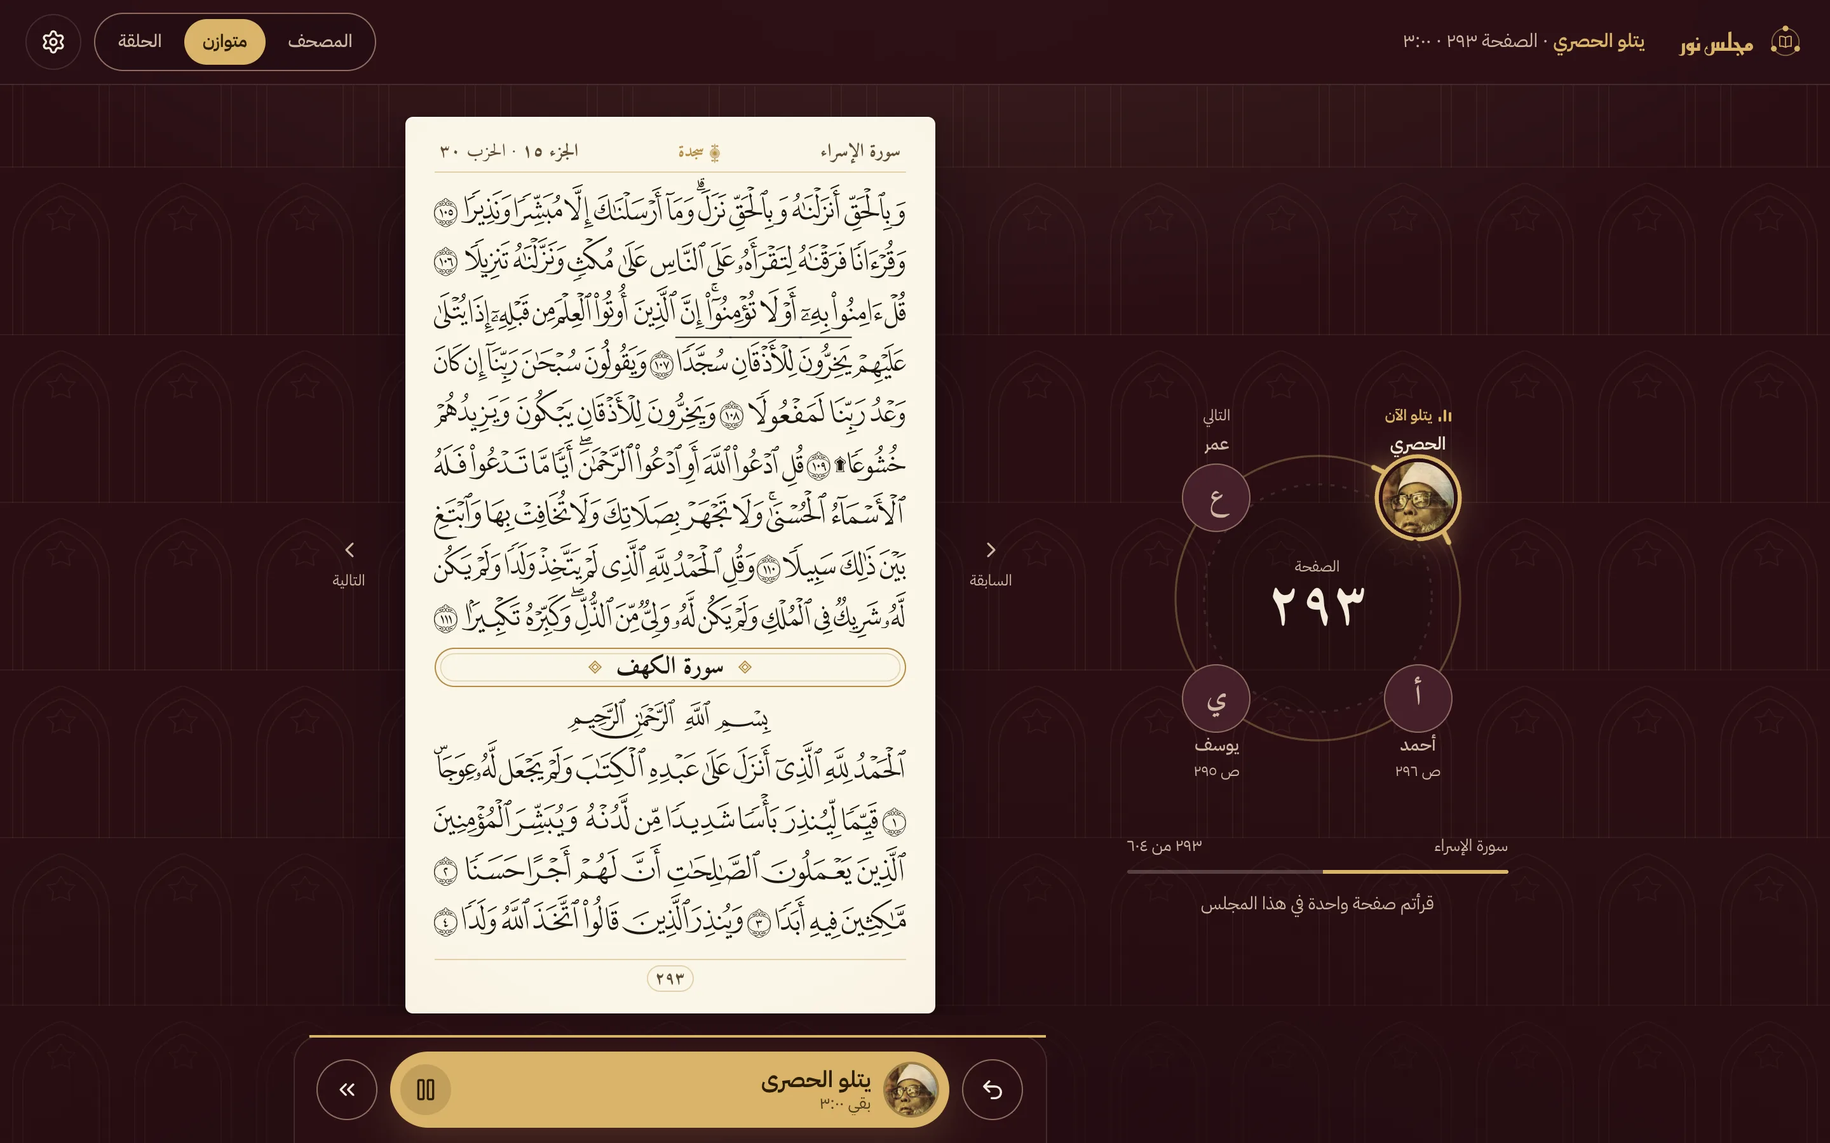
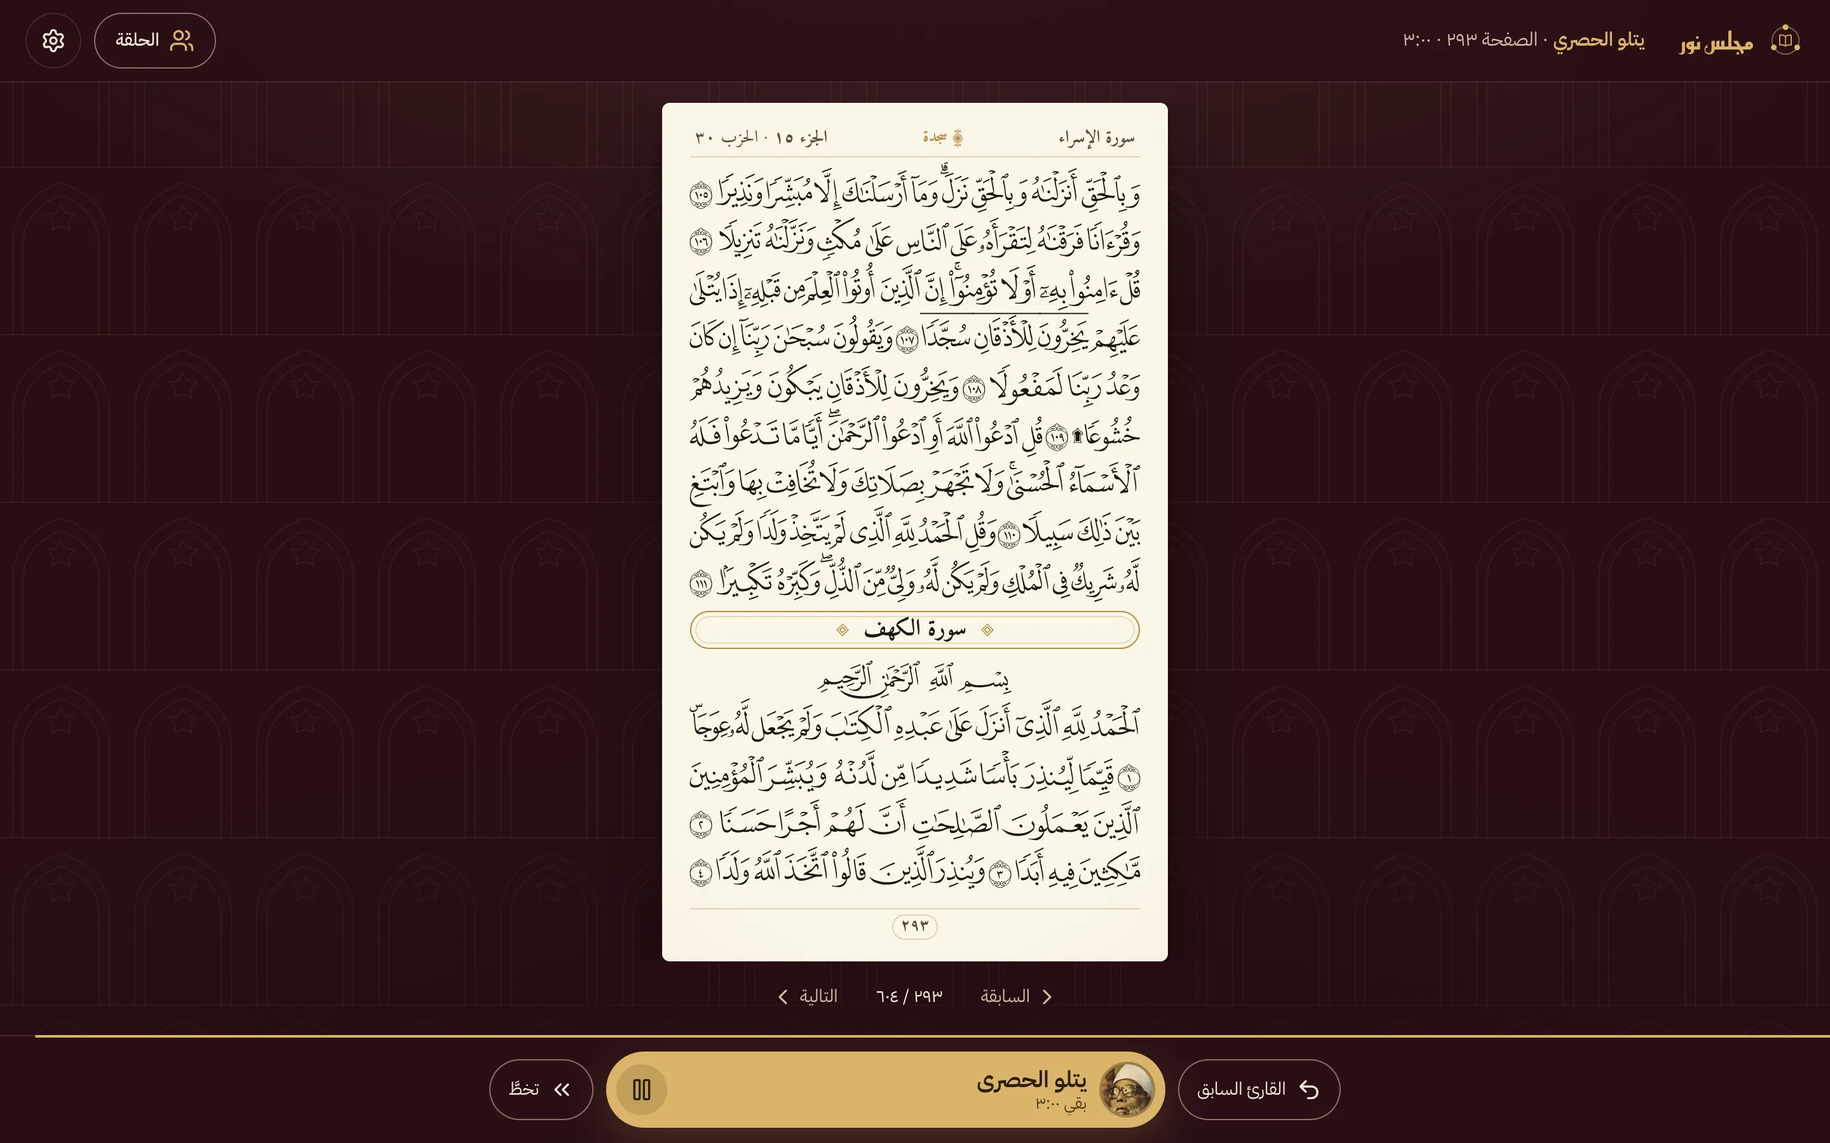
Document the one screen, the new settings and the green default
AGENTS.md describes the reading screen as one fitted column and how it
was measured, and the device's settings apart from the halaqa's;
src/halaqa/AGENTS.md the repeat-mode rule for multi-page turns, speed and
the tone. The README lists the new settings and shows the new screens.

diff --git a/README.md b/README.md
@@ -6,14 +6,14 @@
 
 افتح التطبيق، واختر حلقتك، واقرؤوا معًا. لا حساب ولا خادم، وكل شيء يبقى على جهازك.
 
-![شاشة القراءة على الحاسوب: صفحة من سورة الإسراء، وبجانبها الحلقة: أحمد، والشيخ الحصري يتلو الآن، وعمر، ويوسف؛ وفي الأسفل زرّ التلاوة بصورة الشيخ والوقت الباقي](docs/screenshots/desktop.webp)
+![شاشة القراءة على الحاسوب: صفحة من سورة الإسراء كاملةً في وسط الشاشة، وفي الأعلى «يتلو الحصري» وزرّ «الحلقة»، وفي الأسفل زرّ التلاوة بصورة الشيخ والوقت الباقي](docs/screenshots/desktop.webp)
 
 <p>
   <img src="docs/screenshots/setup.webp" width="260" alt="شاشة البداية: أهل الحلقة بترتيبهم، أحمد ثم الشيخ الحصري ثم عمر، ولكلٍّ زرّا تقديم وتأخير، وتحتهم «أضف شيخًا» و«أضف قارئًا»">
   <img src="docs/screenshots/mobile.webp" width="260" alt="شاشة القراءة على الهاتف باللون الرملي: الصفحة تملأ الشاشة، وفي الأعلى «دور عمر · الصفحة ٢٩٤»">
 </p>
 
-![وضع «الحلقة» باللون الأخضر في طريقة تكرار الصفحة: الدائرة كبيرة، والشيخ المنشاوي تلا الصفحة، وأحمد قرأها، وعمر يقرؤها الآن، ويوسف التالي](docs/screenshots/halaqa.webp)
+![الحلقة بعد الضغط على زرّها، في طريقة تكرار الصفحة: الشيخ المنشاوي تلا الصفحة، وأحمد قرأها، وعمر يقرؤها الآن، ويوسف التالي](docs/screenshots/halaqa.webp)
 
 ## ما في الحلقة
 
@@ -26,13 +26,15 @@
 - **صفحة أو صفحتان أو ثلاث في كل دور**.
 - **البدء من سورة أو جزء أو صفحة**، ورقم الصفحة ظاهر دائمًا.
 - **زرّ واحد ينقل الدور**: «تمّ — القارئ التالي»، وتحته اسم من يليه وصفحته. ومعه «القارئ السابق». وفي دور الشيخ يصير الزرّ نفسه إيقافًا للتلاوة واستئنافًا لها، وبجانبه «تخطَّ».
-- **أو بتوقيت قارئ**: يُقاس دور القارئ بمدة تلاوة قارئ مختار للصفحة نفسها، فيظهر عدّاد هادئ وينتقل الدور حين ينتهي، مع زرّ للإيقاف المؤقت. والانتقال اليدوي هو الأصل.
-- **استمع إلى الصفحة**: تلاوة الصفحة الحالية بصوت القارئ المختار، قبل القراءة أو بعدها، تُوقَف وتُستأنف بالزرّ نفسه.
+- **أو بتوقيت قارئ**: يُقاس دور القارئ بمدة تلاوة قارئ مختار للصفحة نفسها، فيظهر عدّاد هادئ وينتقل الدور حين ينتهي، مع زرّ للإيقاف المؤقت. ولأن الناس يقرؤون أبطأ من القارئ المتقن، تُمدّ «مهلة الدور» ربعًا أو نصفًا. والانتقال اليدوي هو الأصل.
+- **نغمة خفيفة** إذا انتقل الدور وحده، بانتهاء التوقيت أو تلاوة الشيخ، ولها زرّ يُسكتها.
+- **استمع إلى الصفحة**: تلاوة الصفحة الحالية بصوت القارئ المختار، قبل القراءة أو بعدها، مرةً أو مرتين أو ثلاثًا، تُوقَف وتُستأنف بالزرّ نفسه.
+- **سرعة التلاوة**: متأنّية أو عادية أو أسرع، والصوت بنبرته لا يتغيّر.
 - **إيقاف واحد يوقف كل شيء**: إيقاف التوقيت يوقف معه التلاوة التي تُسمَع، والاستئناف يعيدهما معًا.
 - **عشرة قرّاء بصورهم، مجموعين بحسب أدائهم**: متأنٍّ جدًّا، ومتأنٍّ، ومعتدل، وسريع؛ وبجانب كلٍّ متوسط مدة صفحته، وزرّ تسمعه به يتلو الفاتحة قبل أن تختاره: الحصري (المعلّم والمرتّل)، وعبد الباسط، والعفاسي، والمنشاوي، والدوسري، والشاطري، والرفاعي، والسديس، والشريم.
 - **صور القرّاء كما تحب**: ظاهرة، أو مموّهة لا تُعرف بها الوجوه، أو مخفية فلا تُحمَّل أصلًا ويظهر مكانها الحرف الأول من الاسم. من زرّ «المظهر» في شاشة البداية، أو من الإعدادات.
 - **الحلقة مرسومة، وهي ترتيب القراءة**: أهل الحلقة حول دائرة بترتيبهم، ومن عليه الدور مضاء بالذهبي، وعلامة تنتقل على الدائرة من مقعد إلى مقعد. وتحت كل مقعد ما يفعله: يقرأ الآن، أو التالي، أو قرأ، أو صفحته القادمة.
-- **شاشة هادئة**: على الحاسوب صفحة المصحف وبجانبها الحلقة لا غير، معًا في وسط الشاشة. وثلاثة أوضاع: المصحف (الصفحة كبيرة)، ومتوازن، والحلقة (لمن يدير الجلسة).
+- **شاشة واحدة هادئة على كل جهاز**: صفحة المصحف كاملةً بقدر الشاشة بلا تمرير، أو الحلقة كبيرةً لمن يدير الجلسة، يُبدَّل بينهما بزرّ في الأعلى، وأزرار الدور تحتهما دائمًا.
 - **أربعة ألوان**: أخضر (وهو الأصل) وعنّابي وأزرق كسجّاد المسجد ليلًا، ورملي فاتح للنهار والغرف المضيئة، بنقش خفيف لا يزاحم المصحف.
 - **تُحفظ الحلقة على جهازك**: إن أُعيد تحميل الصفحة عُرض عليك أن تتابع من الصفحة نفسها والقارئ نفسه.
 - **الختم**: إذا بلغت الحلقة آخر المصحف قيل «خُتم المصحف»، وعُرضت ختمة جديدة من الفاتحة.

diff --git a/AGENTS.md b/AGENTS.md
@@ -21,10 +21,11 @@ There are two screens and no router:
   who sits in the circle and in what order, people and reciters, each moved
   up or down with a button; continue or repeat; pages per turn; manual or
   reciter-timed turns. A halaqa left open is offered first, as one card.
-- **The reading screen** (`ReadingScreen`). The Mushaf page, the circle
-  beside it (which is also the reading order: every seat says what it does
-  next), and one primary button. On a person's turn it passes the turn on;
-  on a reciter's turn it pauses and resumes his recitation.
+- **The reading screen** (`ReadingScreen`). The Mushaf page, fitted whole to
+  the screen, or the circle (which is also the reading order: every seat
+  says what it does next), one button in the top bar switching between
+  them, and under both one primary button. On a person's turn it passes the
+  turn on; on a reciter's turn it pauses and resumes his recitation.
 
 The brief the app was built from asks for this order of importance on every
 screen, and every decision should protect it: **1. the Quran, 2. the current
@@ -214,6 +215,18 @@ Built once by scripts, committed, never fetched from an API at run time.
   (`aria-pressed`), not radios: arrowing through a radio group selects as it
   goes, and choosing closes the list.
 
+## Settings that belong to the device
+
+`prefs` in `state.ts`, kept apart from the halaqa (`config`) because they
+are how this device looks and sounds, not how the circle reads: the theme,
+the reciters' photos, the speed of recitations (0.75, 1 or 1.25; beyond
+them tajweed suffers, so there is no slider), how many times «استمع» recites
+the page, and a soft tone (`src/halaqa/chime.ts`, Web Audio, never on the
+recitations' element) when a turn passes on its own. They are in the
+settings and behind the gear on the start screen. The halaqa's own
+«مهلة الدور» (a timed reader's turn ×1, ×1.25 or ×1.5 of the reciter's
+time) is in `config`, since it is the circle's choice.
+
 ## Photos
 
 Reciters' photographs follow `prefs.photos`: shown, blurred, or hidden. Some
@@ -245,39 +258,40 @@ README.
 
 ## Layout
 
-The reading screen has three bands (`src/styles/reading.css`): phone under
-760px (the page and the turn; the circle opens in a sheet), tablet to 1099px
-(the page and a narrow side column), desktop from 1100px (the circle and the
-page, sized by the chosen view). There is no third column: the circle is
-the reading order, so a separate list would only repeat it.
+The reading screen is the same on every screen (`src/styles/reading.css`):
+one column the height of the window, never scrolled. A top bar says whose
+turn it is and opens the jump; a button in it switches the main area
+between the Mushaf page and the circle (`showing` in `ReadingScreen`); the
+action bar stays under both. There is no reading-order list: the circle is
+the order, every seat saying what it does next.
 
-On a desktop the page's column is as wide as the page and its two turning
-arrows and no wider, and the grid is centred, so the circle and the page sit
-together in the middle of the screen however wide it is. The views only move
-room between them (`--side`, `--stage-h`).
+The page fits its room whole. The room (`.mushaf-stage`) is a size
+container, and the page is `min(100cqw, 100cqh / --page-height)` wide, so
+it is as large as the room allows in both directions with no breakpoint
+deciding it. Only where that would make it narrower than 220px (a phone on
+its side) does it keep 220px and the room scroll. Under 700px of height the
+row of page arrows gives its room to the page. The circle's room is a size
+container too, and the circle and its seats, names and marks are measured
+in it, so it grows from a phone to a wall.
 
-The Mushaf page is sized by width alone. Everything inside it is in `cqi`, so
-it is a fixed shape, `--page-height` times its width, declared in
-`tokens.css` and itemised in `mushaf.css`. The layout gives it a height to fit
-(`--stage-h`) and the page takes `min(column, stage-h / page-height)`. Change
-anything inside the page and you must update `--page-height`, or the page will
-overflow or float in its frame. The circle is a size container too: its
-centre and seats scale with the circle actually drawn.
+Everything inside the page is in `cqi`, so the page is a fixed shape,
+`--page-height` times its width, declared in `tokens.css` and itemised in
+`mushaf.css`. Change anything inside the page and you must update
+`--page-height`, or it will overflow or float in its frame.
 
-The action bar is a size container. Below 560px of its own width (a phone,
-the page column in the Halaqa view, a small desktop) the secondary actions
-drop their visible words and keep them as accessible names, so the main
-button keeps its own. Under 400px of viewport the main button says «تمّ —
-التالي» instead of «تمّ — القارئ التالي», the reciter's button drops his
-photo, and the top line, when it carries a clock, says «ص ٢٤» for «الصفحة
-٢٤». `.reading-quran` has an explicit `minmax(0, 1fr)` track so the bar can
-never push the page wider than the screen, which it once did.
+The action bar is a size container. Below 560px of its own width (a phone)
+the secondary actions drop their visible words and keep them as accessible
+names, so the main button keeps its own. Under 400px of viewport the main
+button says «تمّ — التالي» instead of «تمّ — القارئ التالي», the reciter's
+button drops his photo, and the top line, when it carries a clock, says
+«ص ٢٤» for «الصفحة ٢٤».
 
-Measured in Chrome over all three views at 320, 360, 390, 760, 900, 1100,
-1280, 1440, 1920 and 2560 wide, in a timed reader's turn and in a reciter's
-turn (the two widest bars): no horizontal overflow, no seat outside its
-column, and the main button never under 140px with its words whole. If you
-add a control to the bar, measure again.
+Measured in Chrome at 320×568, 360×640, 375×667, 390×844, 820×1180,
+1100×700, 1440×900 and 2560×1440, on both sides of the switch, in a timed
+reader's turn and a reciter's: the page whole with nothing scrolled, no
+horizontal overflow, no seat off the screen, and the main button never
+under 140px with its words whole. If you add anything to the bar or the top
+line, measure again.
 
 ## Themes
 

diff --git a/src/halaqa/AGENTS.md b/src/halaqa/AGENTS.md
@@ -67,12 +67,15 @@ the turn counter moves to a fresh round, `(round + 1) * members + seat`, and
 is re-anchored at the page being read, so the modulo names the right member
 from here on and the circle goes round in its new order.
 
-In repeat mode **nobody misses the page**. If the change seats anyone ahead
-of the reader who is still to read it (moved up, or newly added), the page
-starts over from the first seat. If everyone ahead has read it, or was
-passed over by an earlier jump, the reader carries on, and the round is
-anchored so those ahead keep their ticks (or their «لم يقرأها»).
-`state.test.ts` has a case for each.
+In repeat mode **nobody misses a page**. The round keeps its first page
+(not the page open, which in a turn of two pages may be its second). If the
+reader who left sat last, everyone else has read the round's pages and the
+circle moves on to the next. Otherwise, if anyone now seated ahead of the
+reader is still to read them (moved up, newly added, or the turn grown to a
+page they did not read), the pages start over from the first seat. If not,
+the reader carries on on the same page, and the round is anchored so those
+ahead keep their ticks (or their «لم يقرأها»). `state.test.ts` has a case
+for each.
 
 ## A reciter's turn
 
@@ -114,9 +117,20 @@ stream from QuranicAudio and are never cached by the service worker.
 reciter's turn it pauses him. Space does the same.
 
 **Samples.** The reciter list plays a reciter's al-Fatiha on a second
-`Player` (`useSample`), only ever started by a tap, and kept off the lock
-screen. It pauses the halaqa's recitation while it plays and stops if that
-recitation starts again: one voice at a time.
+`Player` (`useSample`), only ever started by a tap, kept off the lock
+screen, and at the reciter's own speed so paces compare. It pauses the
+halaqa's recitation while it plays and carries it on when it stops, and it
+stops if that recitation starts again some other way: one voice at a time.
+
+**Speed.** `player.setRate()` sets both the element's rate and its default
+(a new source resets the rate to the default), and the timer that stops a
+stretch on its last word divides by it. A reciter's time left is shown in
+clock time, not recording time.
+
+**The tone.** A turn that passes on its own, a timed one running out or a
+reciter finishing, rings `chime()` if the reader keeps it on. It is Web
+Audio, woken by the same taps that prime the player (`wakeSound()`), and
+never touches the recitations' element.
 
 A recording's page stretches are played through without a seek when the
 next starts within three seconds of where the last ended, or before it: one

diff --git a/docs/CONTRIBUTING.md b/docs/CONTRIBUTING.md
@@ -44,12 +44,12 @@ npm run build
 | the circle, which is also the order        | `src/components/HalaqaCircle.tsx`             |
 | how a recitation plays                     | `src/halaqa/player.ts`, `useRecitation.ts`    |
 | the reciter list, its samples and paces    | `src/components/ReciterPicker.tsx`, `src/data/reciters.ts` |
-| colour and photos settings                 | `src/components/Appearance.tsx`               |
+| colour, photos and sound settings          | `src/components/Preferences.tsx`              |
 | the settings drawer                        | `src/components/SettingsPanel.tsx`            |
 | how a Mushaf page is drawn                 | `src/mushaf/MushafPage.tsx`, `styles/mushaf.css` |
 | the reciters                               | `src/data/reciters.ts`, then `npm run build:timings` |
 | colours and themes                         | `src/styles/tokens.css` (contrast is tested)  |
-| layout per screen size and view            | `src/styles/reading.css`                      |
+| the reading screen's layout                | `src/styles/reading.css`                      |
 | Arabic numbers and counted nouns           | `src/data/arabic.ts`                          |
 
 ## A first change, end to end
@@ -63,9 +63,9 @@ Say you want a fifth seat.
    (`HalaqaCircle.tsx`), spaced evenly and starting at the near right.
 3. Add a case to `src/halaqa/state.test.ts` that seats five and goes round
    them, and run `npm test`.
-4. Look at it on a phone width (320px and 390px) and at 1440px, in all
-   three views: seat names on the upper arc sit above the circle and must
-   not leave its column.
+4. Look at the circle on a phone (320px and 390px wide) and at 1440px:
+   seat names on the upper arc sit above the circle and must stay on the
+   screen.
 5. Update the README's feature list, which is in Arabic. If you do not write
    Arabic, say so in the pull request and someone will.
 
